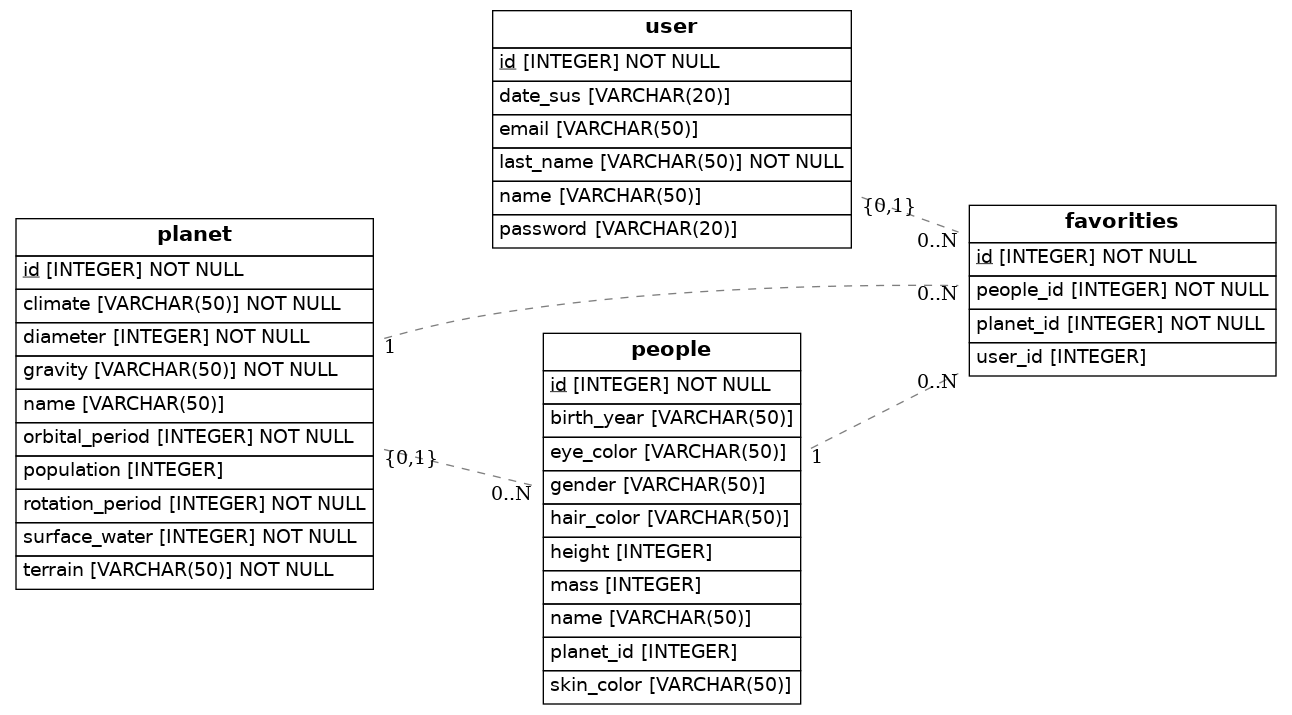
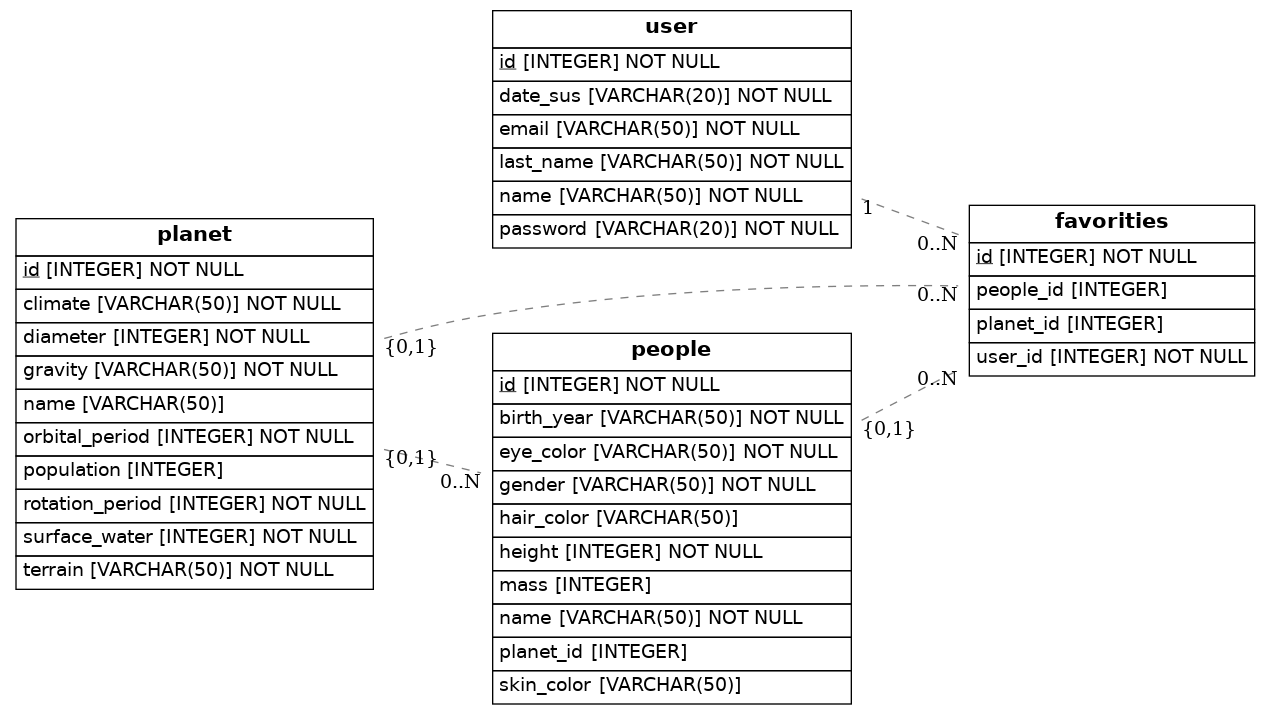
Modificando favorities

diff --git a/src/models.py b/src/models.py
@@ -11,11 +11,11 @@ Base = declarative_base()
 class User(Base):
     __tablename__ = 'user'
     id = Column(Integer, primary_key=True)
-    name = Column(String(50), nullable=True)
+    name = Column(String(50), nullable=False)
     last_name=Column(String(50), nullable=False)
-    email= Column(String(50), nullable=True)
-    password= Column(String(20), nullable=True)
-    date_sus=Column(String(20),nullable=True)
+    email= Column(String(50), nullable=False)
+    password= Column(String(20), nullable=False)
+    date_sus=Column(String(20),nullable=False)
     favorites= relationship("Favorities", backref="user")
 
 
@@ -39,14 +39,14 @@ class Planet(Base):
 class People(Base):
     __tablename__='people'
     id=Column(Integer, primary_key=True)
-    name= Column(String(50),nullable=True)
-    height= Column(Integer,nullable=True)
+    name= Column(String(50),nullable=False)
+    height= Column(Integer,nullable=False)
     mass= Column(Integer,nullable=True)
     hair_color= Column(String(50),nullable=True)
     skin_color= Column(String(50),nullable=True)
-    eye_color= Column(String(50),nullable=True)
-    birth_year= Column(String(50),nullable=True)
-    gender= Column(String(50),nullable=True)
+    eye_color= Column(String(50),nullable=False)
+    birth_year= Column(String(50),nullable=False)
+    gender= Column(String(50),nullable=False)
     planet_id= Column(Integer, ForeignKey("planet.id"), nullable=True)
     favorities= relationship("Favorites", backref="poeple")
   
@@ -54,9 +54,9 @@ class People(Base):
 class Favorites(Base):
     __tablename__='favorities'
     id= Column(Integer, primary_key=True)
-    user_id= Column(Integer, ForeignKey("user.id"), nullable=True)
-    planet_id= Column(Integer,ForeignKey("planet.id"), nullable=False)
-    people_id= Column(Integer, ForeignKey("people.id"),nullable=False)
+    user_id= Column(Integer, ForeignKey("user.id"), nullable=False)
+    planet_id= Column(Integer,ForeignKey("planet.id"), nullable=True)
+    people_id= Column(Integer, ForeignKey("people.id"),nullable=True)
 
     def to_dict(self):
         return {}
